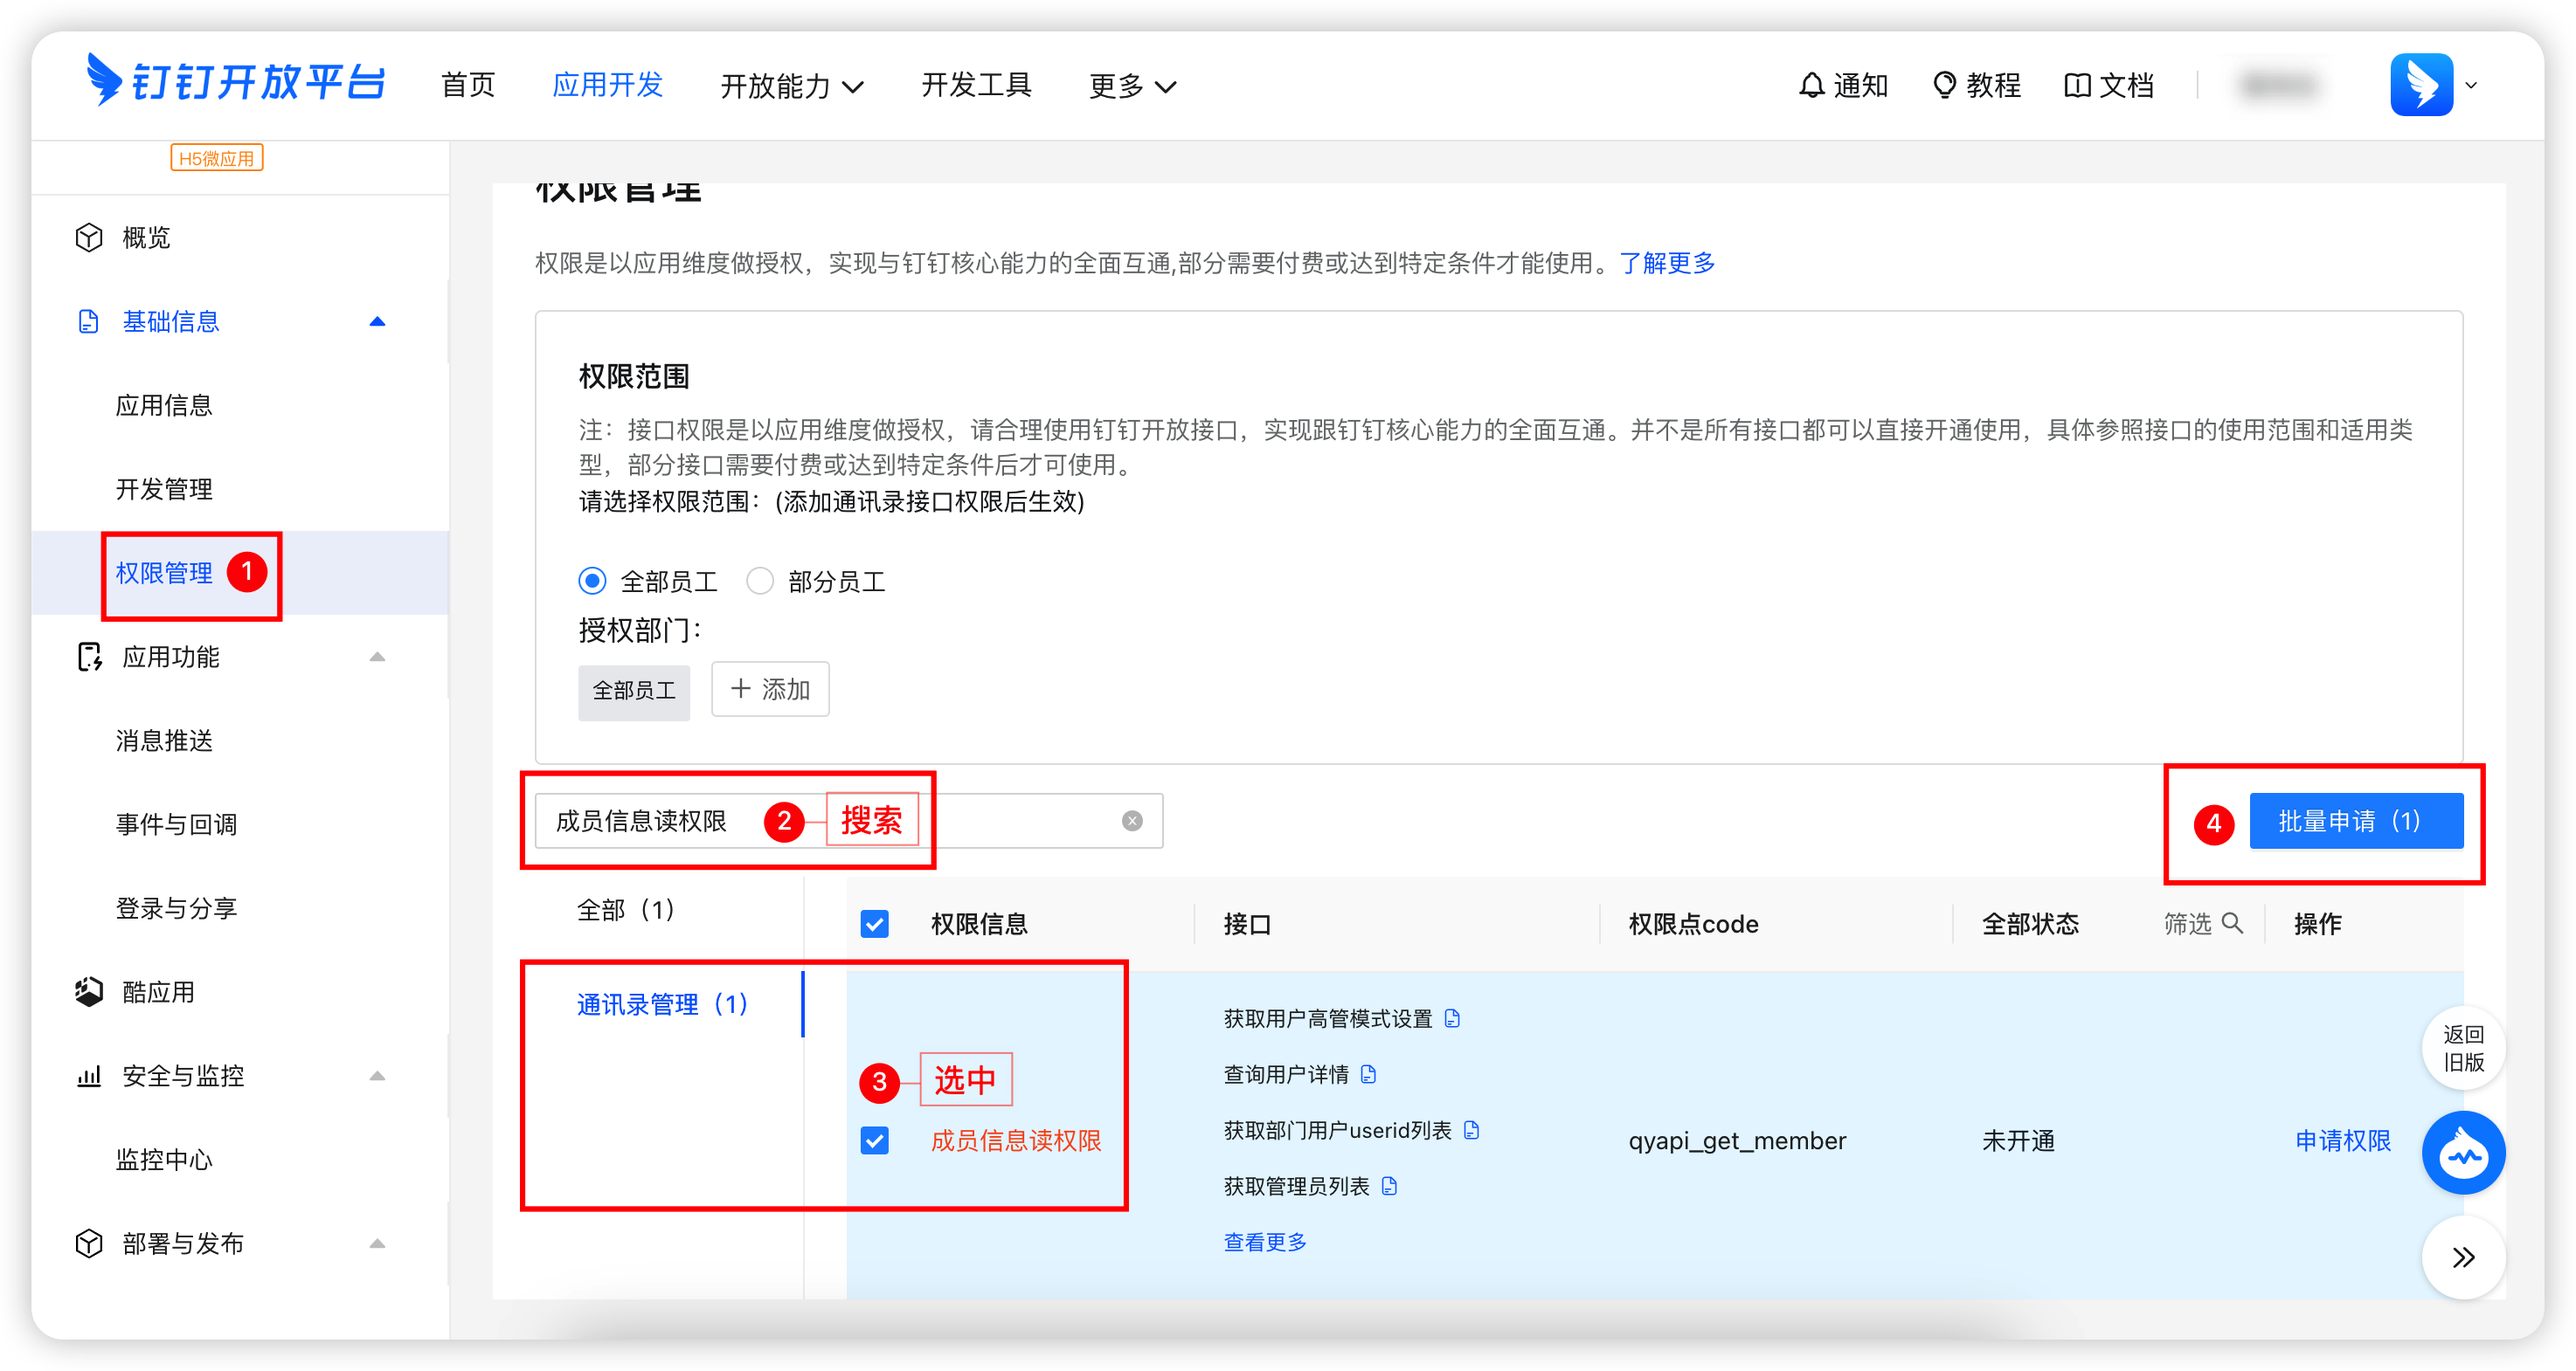
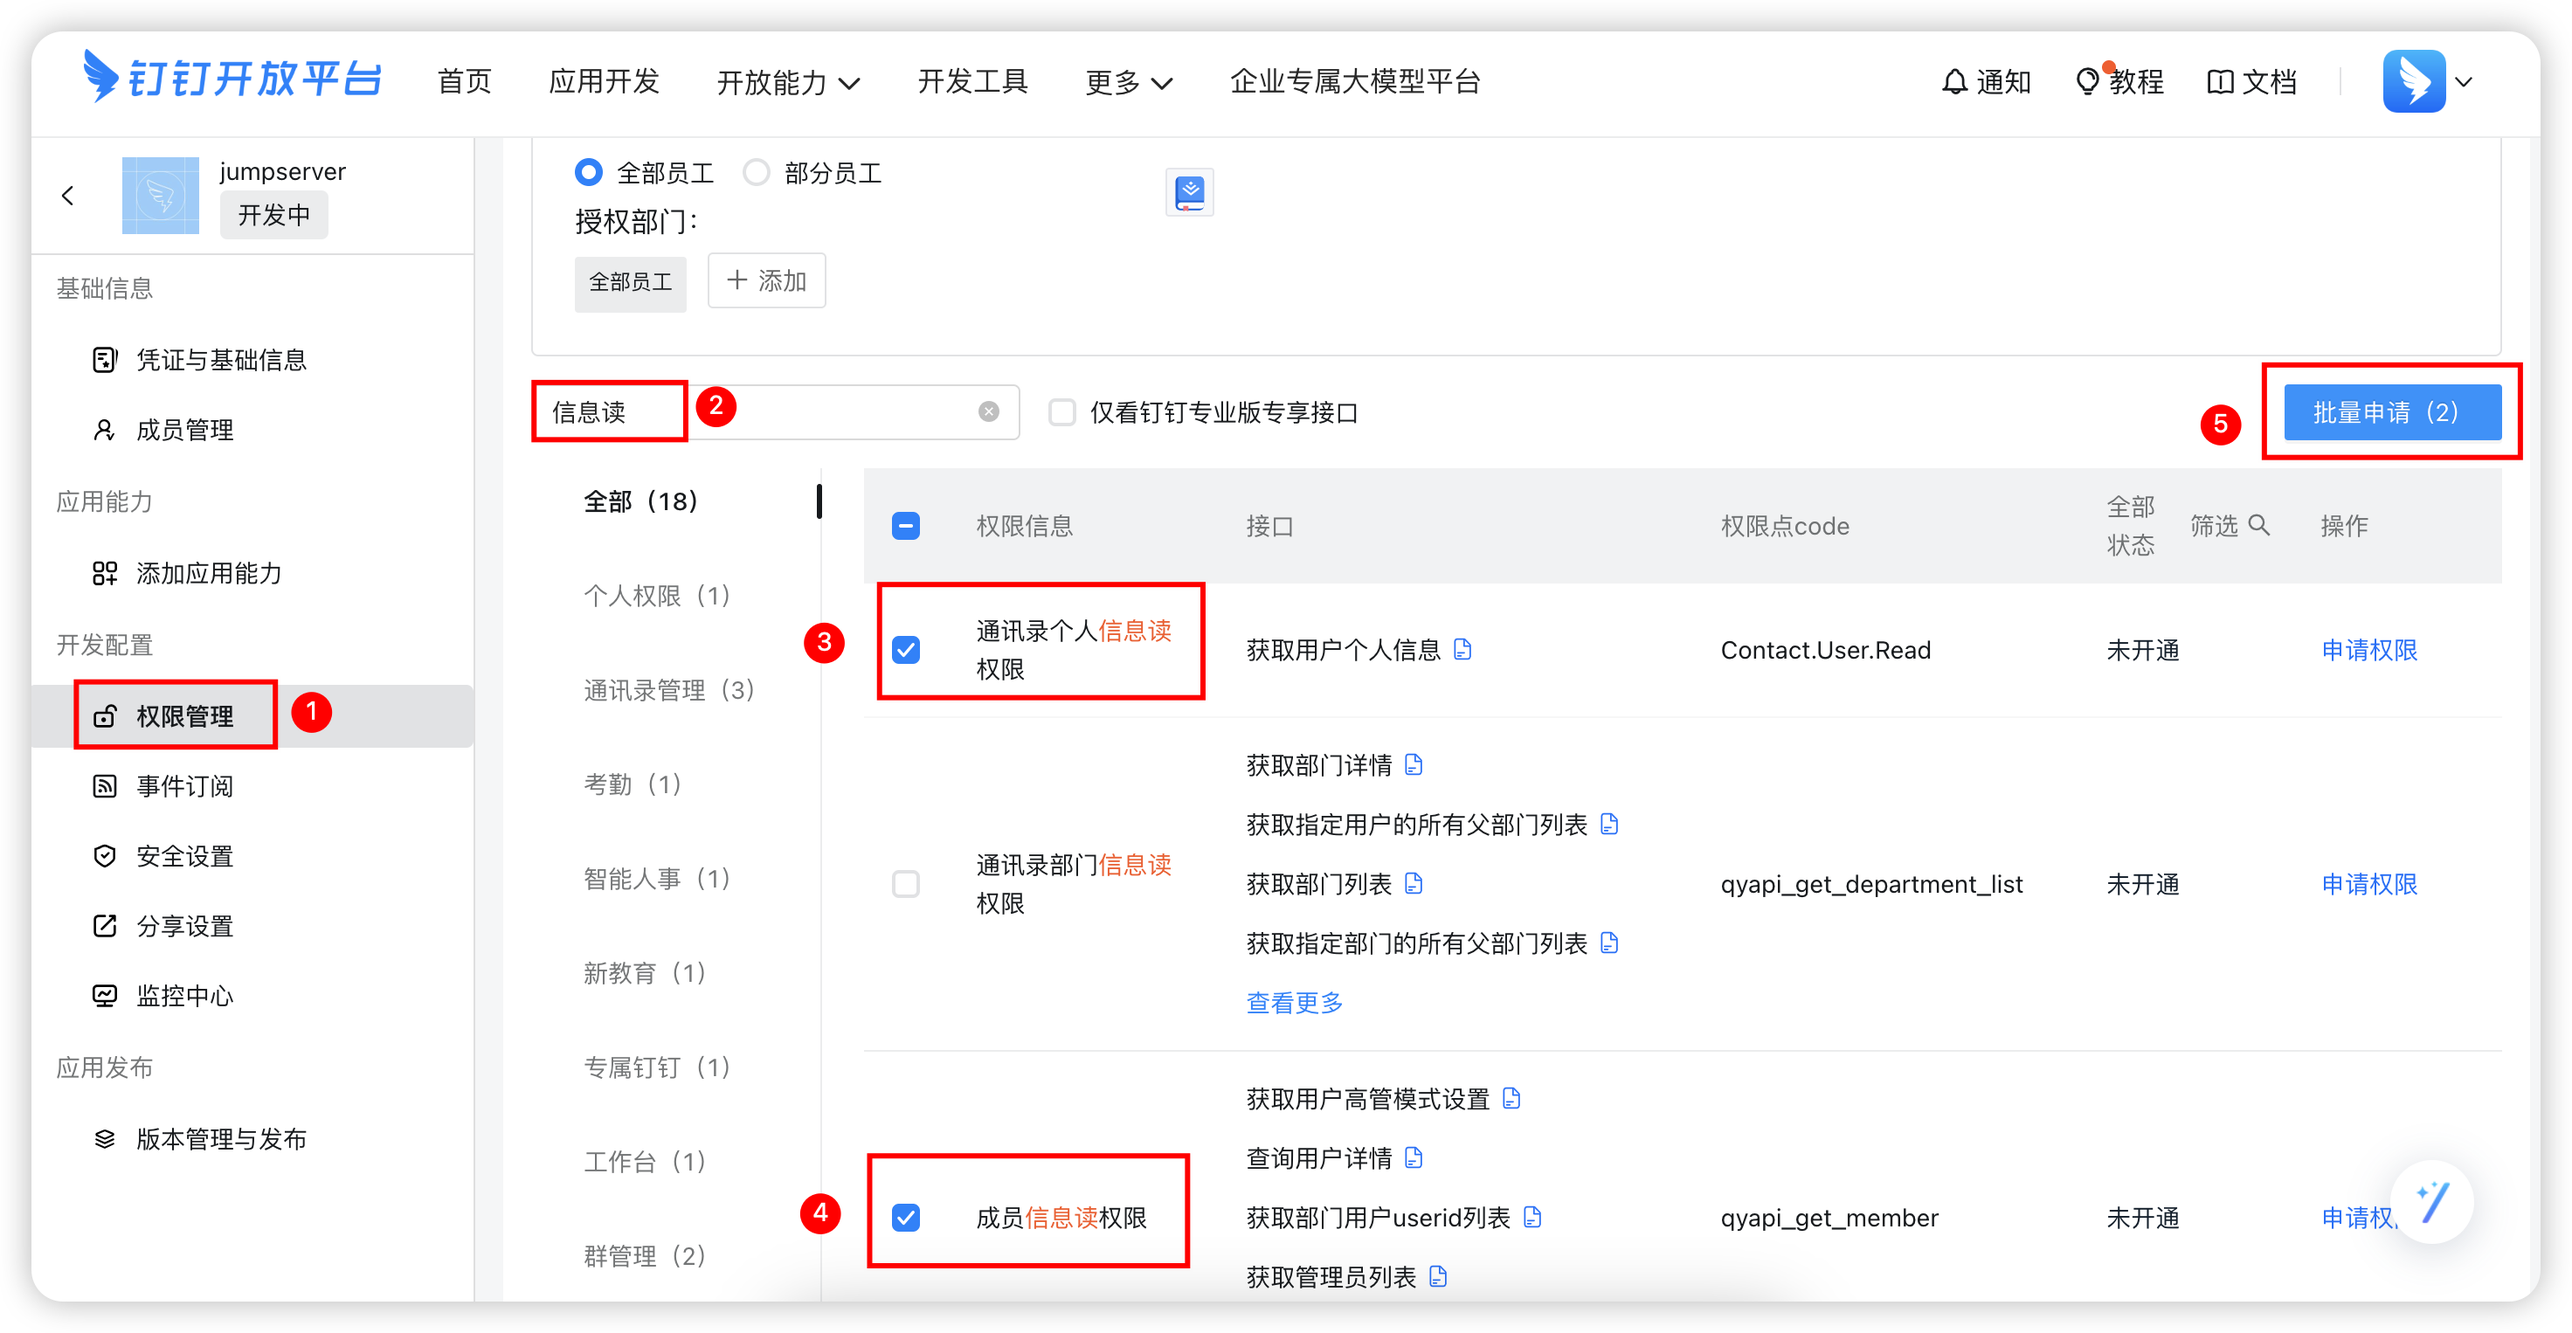
perf: 钉钉认证配置权限修改

diff --git a/docs/guide/system/authentication/dingtalk.md b/docs/guide/system/authentication/dingtalk.md
@@ -41,8 +41,8 @@
 
 ### 3.3 配置权限管理
 !!! tip ""
-    - 点击钉钉的 `权限管理` 模块页面，搜索 `成员信息读权限`。
-    - 选中 `通讯录管理` - `成员信息读权限`，点击批量申请。
+    - 点击钉钉的 `权限管理` 模块页面，模糊搜索 `信息读`。
+    - 选中 `通讯录个人信息读权限` 和 `成员信息读权限`，点击批量申请。
 ![钉钉权限配置](../../../img/dingtalk_06.png)
 
 ## 4 钉钉账号登陆 JumpServer
